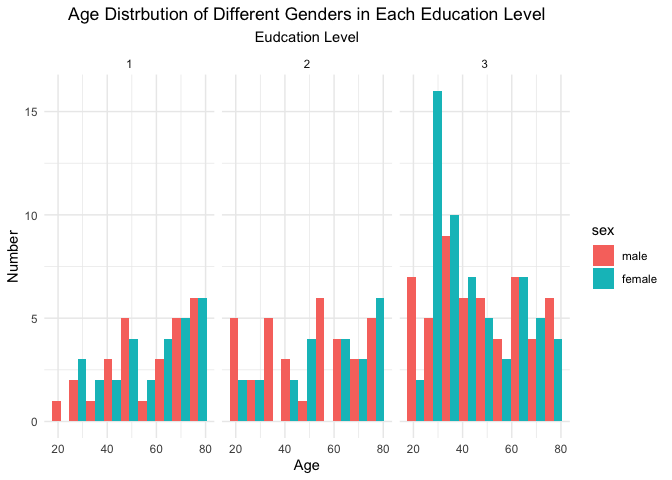
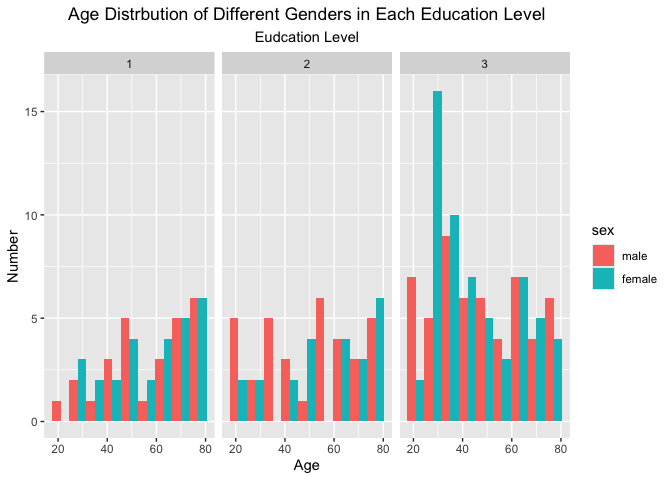
creat a plot of total activity against age

diff --git a/hw3_yc4585.md b/hw3_yc4585.md
@@ -72,7 +72,6 @@ combined_ac_df |>
        x = 'Age',
        y = 'Number',
        fill = 'sex') +
-  theme_minimal() +
   theme(plot.title = element_text(hjust = 0.5),  
         plot.subtitle = element_text(hjust = 0.5))
 ```
@@ -91,7 +90,7 @@ of males and females is about the same, but at education level 2, the
 number of males is significantly higher than that of females.
 
 As for the plot, overall, the number of people at education level 3 is
-the highest, while education level 2 has the lowest number of
+the highest, while education level 1 has the lowest number of
 individuals. Considering gender, we observe that at education level 1,
 among those around 20 years old, men outnumber women. However, as age
 increases, the number of women also rises, and in the age group over 70,
@@ -101,4 +100,42 @@ At education level 2, in the younger and middle-aged groups, men
 generally outnumber women, but in older age groups, women equal or even
 surpass men in number. For education level 3, the middle age group has
 more women than men, while at ages around 20 and 80, there are more men
-than women.
+than women. \### total activity against age
+
+``` r
+total_act_plot=
+combined_ac_df |>
+  group_by(seqn,age,sex,education) |>
+  summarise(sum_mins=sum(min1:min45)) |>
+  ggplot(aes(x=age,y=sum_mins,color=sex)) +
+  geom_point(alpha=0.5) +
+  geom_smooth(se = FALSE) +
+  labs(title = 'Total Activities against Age by Gender and Education Level',
+       subtitle = 'Eudcation Level',
+       x = 'Age',
+       y = 'Total activity (mins)',
+       fill = 'sex') +
+  facet_grid(. ~ education)+
+  theme(plot.title = element_text(hjust = 0.5),  
+        plot.subtitle = element_text(hjust = 0.5))
+```
+
+    ## `summarise()` has grouped output by 'seqn', 'age', 'sex'. You can override
+    ## using the `.groups` argument.
+
+``` r
+print(total_act_plot)
+```
+
+    ## `geom_smooth()` using method = 'loess' and formula = 'y ~ x'
+
+![](hw3_yc4585_files/figure-gfm/unnamed-chunk-6-1.png)<!-- -->
+
+Across all three education levels, middle-aged women have a higher total
+level of activity compared to both younger and older age groups. In
+education level 1, men around 60 years old show a peak in total
+activities.
+
+For both education levels 2 and 3, middle-aged women engage in more
+total activities than men. However, in the age group over 70 years old,
+men in both groups have more total activities than women.
